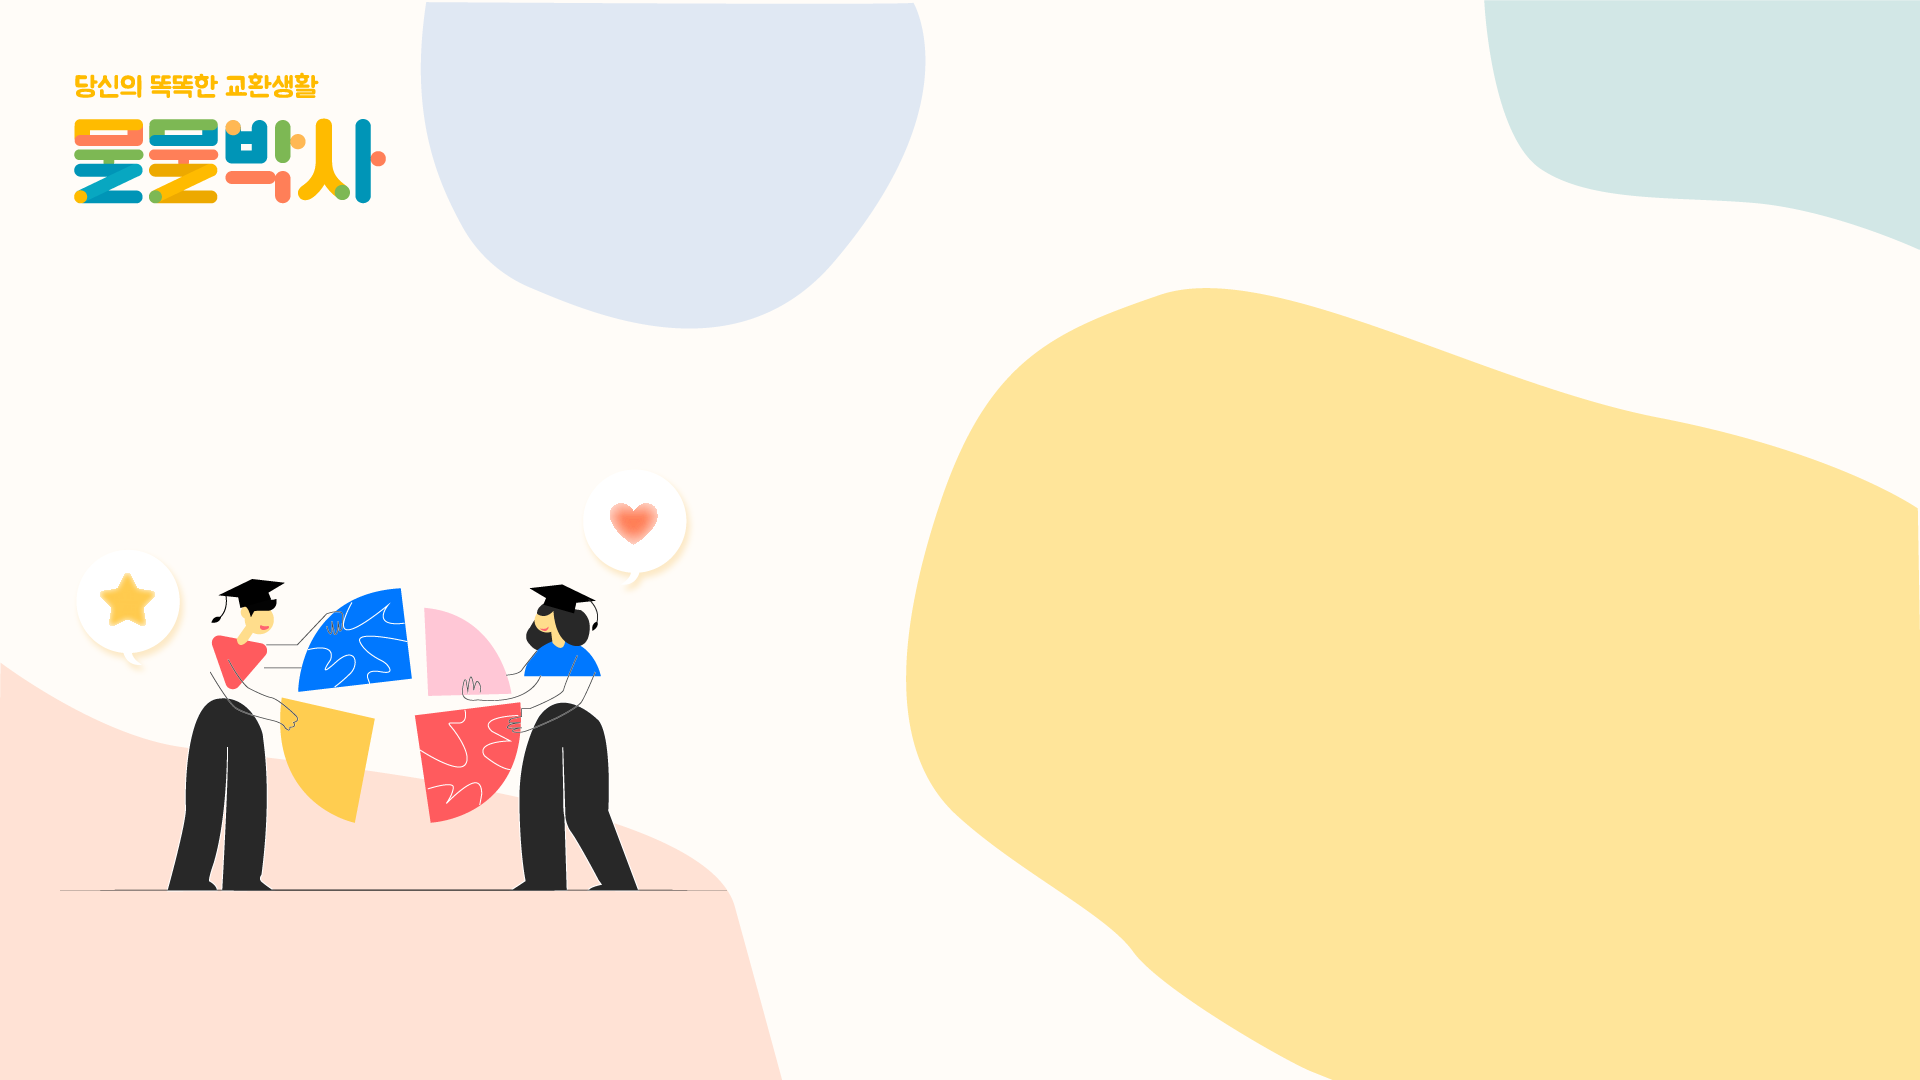
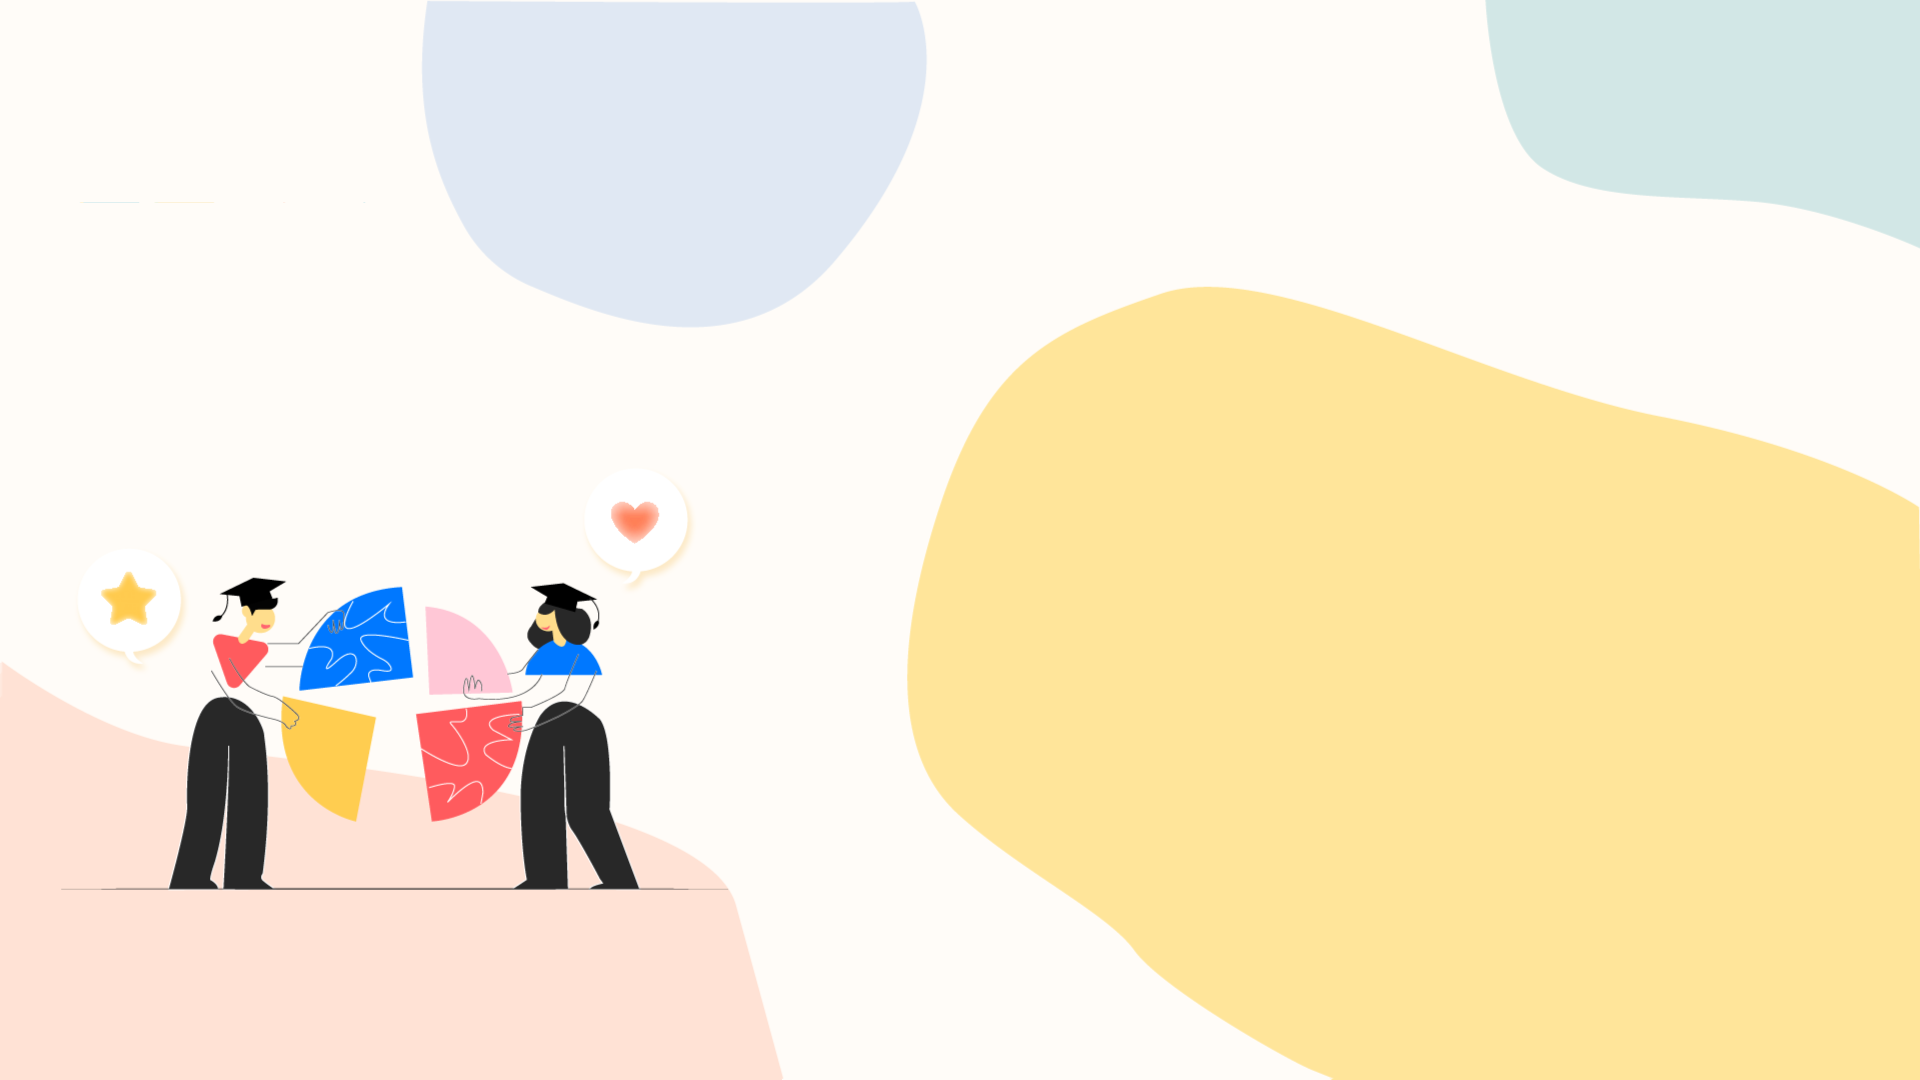
[강동현] Feat: 설문 링크 버튼 생성

diff --git a/src/App.js b/src/App.js
@@ -6,8 +6,7 @@ import { history } from './redux/configureStore';
 
 // css
 import backgroundImg from './images/moolmool_background.png';
-import SurveyButton from './components/shared/SurveyButton';
-
+import brandlogo from './images/brand_name.png';
 // page import
 import { Login, Signup, LoginProgress, Welcome, Address } from './pages/login/index';
 import {
@@ -56,11 +55,15 @@ function App() {
   };
   
   return (
-    <ConnectedRouter history={history}>
-      <ThemeProvider theme={theme}>
-        <Background>
-          {/* <SurveyButton/> */}
-        </Background>
+    <>
+      <Background />
+      <ConnectedRouter history={history}>
+        <ThemeProvider theme={theme}> 
+          <BrandInfo>
+            <h1>똑똑한 교환생활, 물물박사</h1>
+            <img src={brandlogo} alt="물물박사 로고"/>
+            <a target="blank" rel="external" href="https://docs.google.com/forms/d/e/1FAIpQLSeQtgLQ76wO2sXc69QuvjwtiwdcKgK4sNe2UwU1uHyZLPxSUA/viewform?embedded=true">서비스 피드백하러 가기</a>
+          </BrandInfo> 
           <GlobalStyle>
             <Route exact path="/" component={Main} />
             <Route exact path="/login" component={Login} />
@@ -87,11 +90,35 @@ function App() {
             <Route exact path="/editproduct/:itemId" component={RegisterProduct} />
             <Route exact path="/Banlist" component={Banlist} />
           </GlobalStyle>
-        {/* </Background> */}
-      </ThemeProvider>
-    </ConnectedRouter>
+        </ThemeProvider>
+      </ConnectedRouter>
+    </>
   );
 };
+
+const BrandInfo = styled.div`
+  position: absolute;
+  display: flex;
+  flex-flow: column nowrap;
+  left: 65px;
+  h1 {
+    text-indent: -9999px;
+  }
+  a {
+    display: inline-block;
+    width: 300px;
+    text-align: center;
+    padding: 20px 0;
+    margin: 30px 0 0 7px;
+    color: white;
+    border-radius: 40px;
+    font-size: 18px;
+    text-decoration: none;
+    background-color: #FFBB00;
+    box-shadow: 0px 2px 10px 5px rgb(255 187 0 / 30%);
+    cursor: pointer;
+  }
+`;
 
 const Background = styled.div`
   width: 100vw;
@@ -147,5 +174,7 @@ const GlobalStyle = styled.div`
     transform: translate(50%, -50%); 
   }
 `;
+
+
 
 export default App;

diff --git a/src/pages/Chatroomlist.js b/src/pages/Chatroomlist.js
@@ -27,7 +27,7 @@ const Chatroomlist = (props) => {
     return(
         <Base>
             <LocationBar title="채팅"/>
-            <BannerAnchor target="_blank" href="https://docs.google.com/forms/d/e/1FAIpQLSeQtgLQ76wO2sXc69QuvjwtiwdcKgK4sNe2UwU1uHyZLPxSUA/viewform?embedded=true">
+            <BannerAnchor target="blank" rel="external" href="https://docs.google.com/forms/d/e/1FAIpQLSeQtgLQ76wO2sXc69QuvjwtiwdcKgK4sNe2UwU1uHyZLPxSUA/viewform?embedded=true">
                 <BannerImg src={banner} alt="설문조사 배너"/>
             </BannerAnchor>
             <Container>
